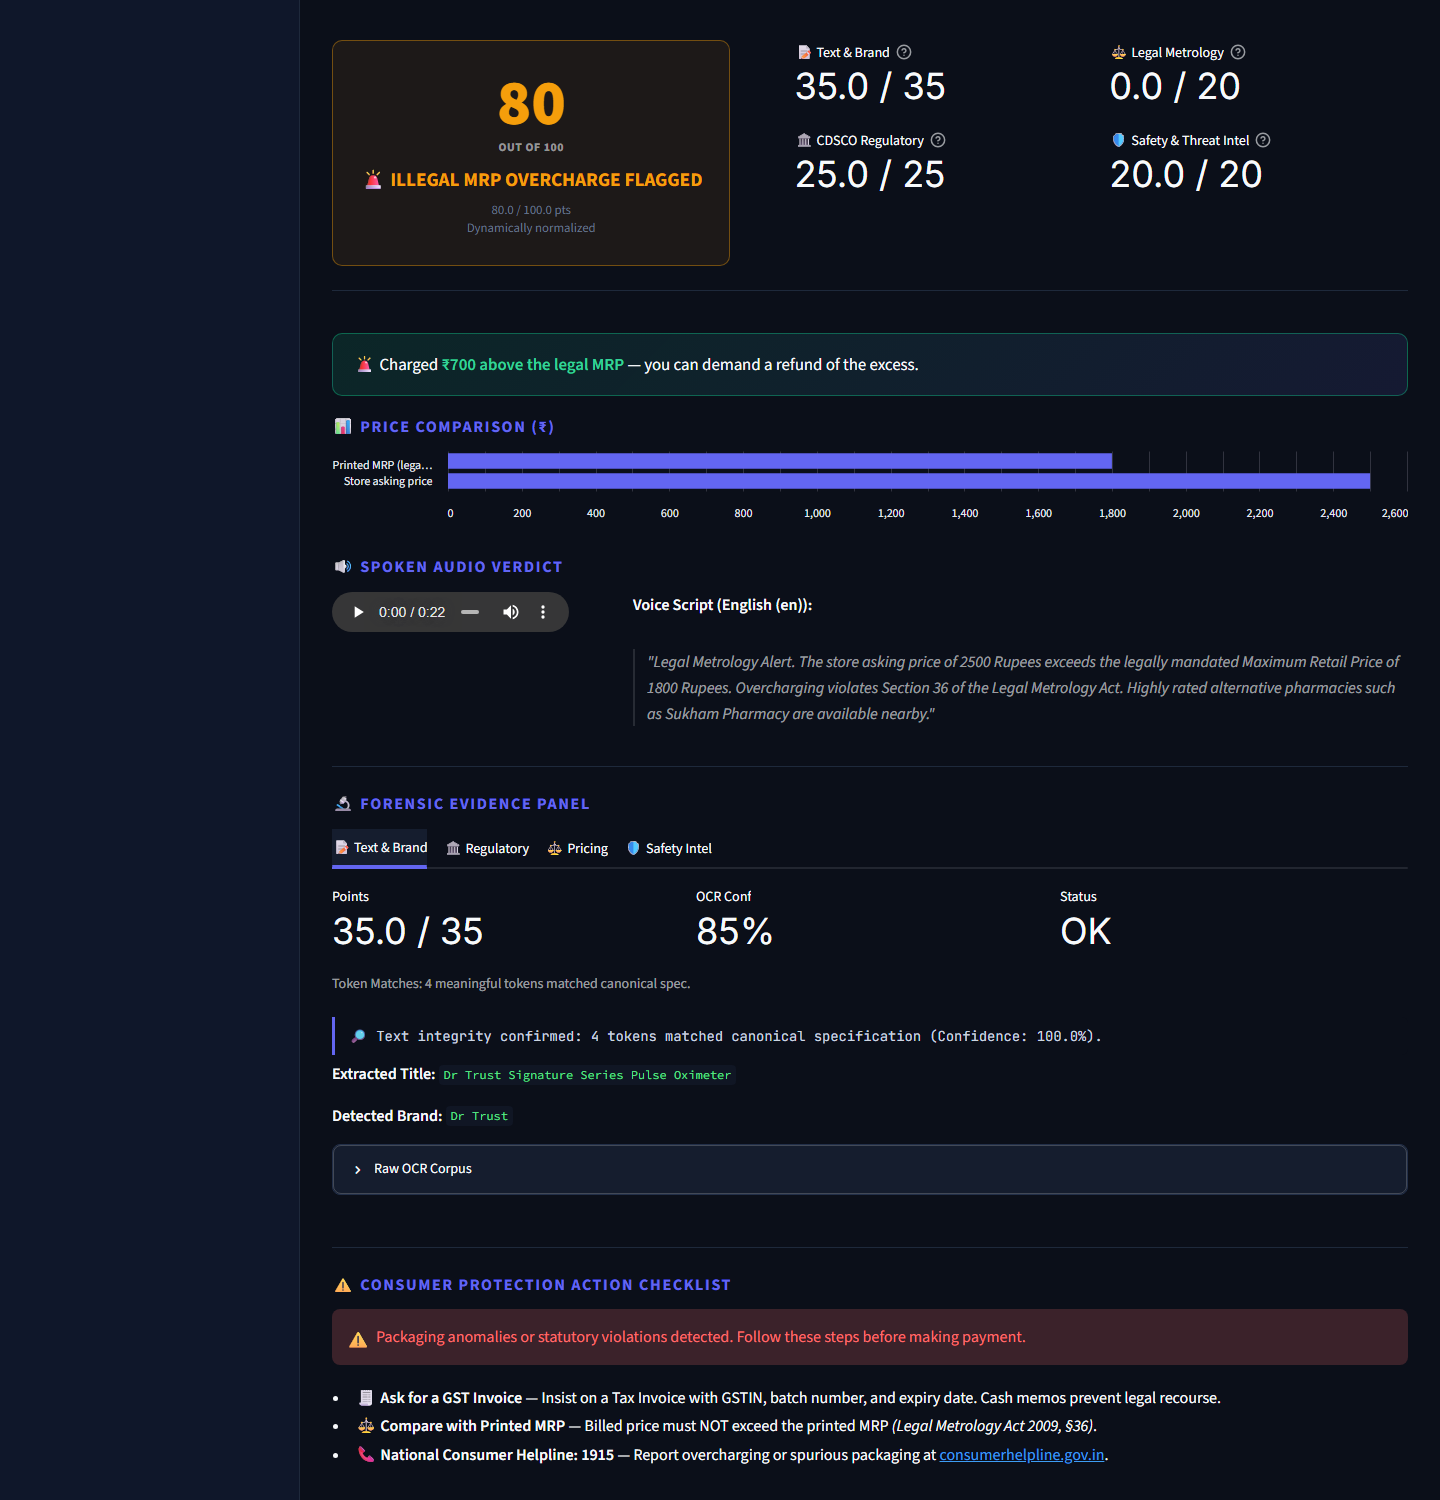
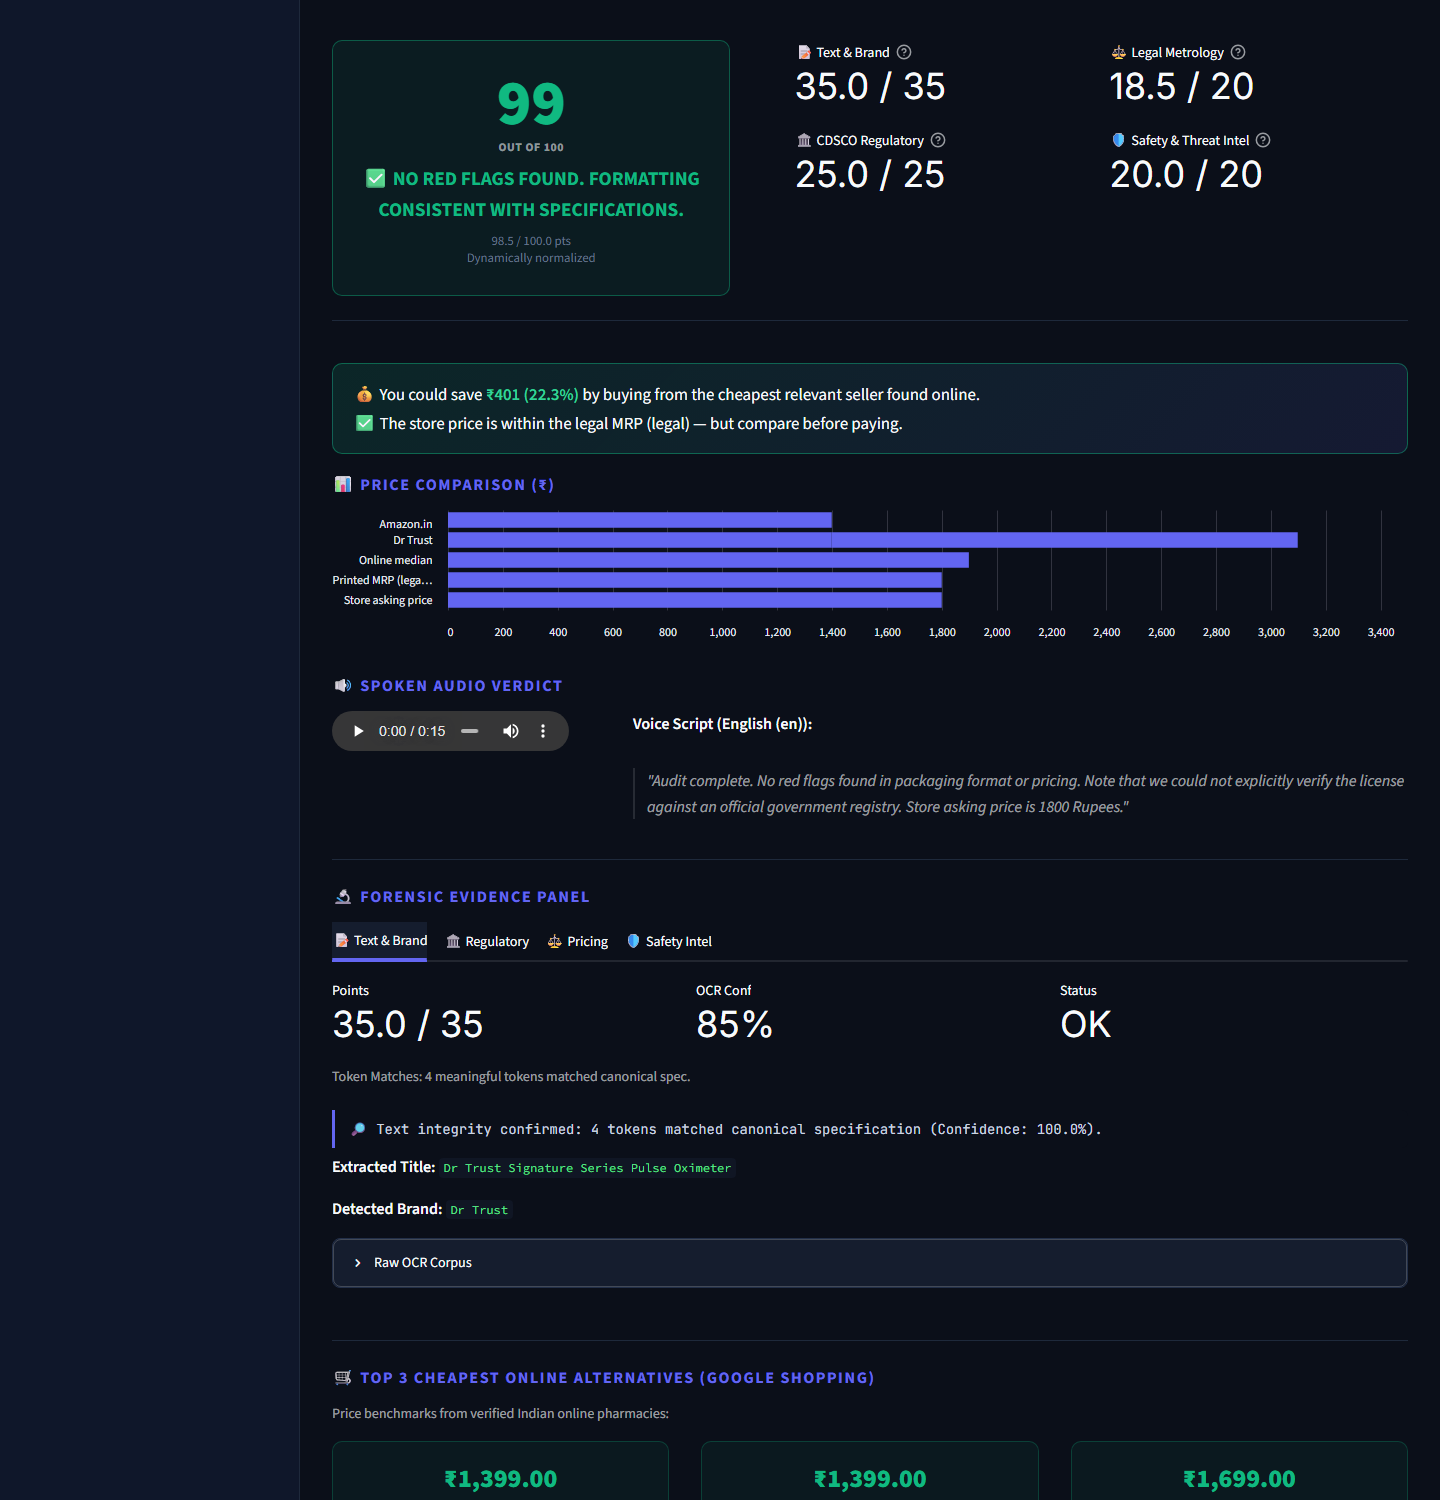
Refocus on fair price + cheapest source; fix Shopping query builder; savings in audio

diff --git a/app.py b/app.py
@@ -442,8 +442,9 @@ if demo_mode_toggle:
 st.markdown("""
 <div class="cs-hero">
   <h1>🛡 Care-Shield</h1>
-  <p>Algorithmic defense against counterfeit medical packaging, illegal price gouging,
-     and spurious devices — zero hallucination, built for Indian senior citizens.</p>
+  <p><b>Before you pay:</b> is it the right product, is the price fair, and where is it cheapest?
+     Scan any medical device or medicine — live SerpApi prices, counterfeit &amp; recall checks,
+     and the legal MRP ceiling. Built for Indian families and senior citizens.</p>
   <span class="badge">CDSCO MDR 2017</span>
   <span class="badge">Legal Metrology Act 2009</span>
   <span class="badge">Zero Hallucination</span>
@@ -801,14 +802,25 @@ if scorecard:
         cheapest_ = min((m.price for m in pr_.benchmark_merchants if m.price >= 0.4 * (pr_.online_median or 0)), default=None)
         sv = compute_savings(pr_.scanned_purchase_price, scorecard.ocr_result.printed_mrp_inr,
                              pr_.online_median, cheapest_)
-        if sv["illegal_overcharge"] or sv["save_vs_cheapest"]:
-            lines = []
-            if sv["illegal_overcharge"]:
-                lines.append(f"🚨 Charged <b>₹{sv['illegal_overcharge']:,.0f} above the legal MRP</b> — you can demand a refund of the excess.")
-            if sv["save_vs_cheapest"]:
-                lines.append(f"💰 You could save <b>₹{sv['save_vs_cheapest']:,.0f} ({sv['save_pct']}%)</b> buying from the cheapest verified online seller.")
-            st.markdown(
-                '<div class="cs-savings">' + "<br/>".join(lines) + "</div>", unsafe_allow_html=True)
+        mrp_ = scorecard.ocr_result.printed_mrp_inr
+        gap_pct = None
+        if mrp_ and pr_.online_median and pr_.online_median < 0.92 * mrp_:
+            gap_pct = round(100 * (mrp_ - pr_.online_median) / mrp_)
+        lines = []
+        if sv["save_vs_cheapest"]:
+            lines.append(f"💰 You could save <b>₹{sv['save_vs_cheapest']:,.0f} ({sv['save_pct']}%)</b> by buying from the cheapest relevant seller found online.")
+        if gap_pct:
+            lines.append(f"🏷 <b>MRP is a legal ceiling, not the fair price</b> — the online median (₹{pr_.online_median:,.0f}) is <b>{gap_pct}% below</b> the printed MRP (₹{mrp_:,.0f}).")
+        if sv["illegal_overcharge"]:
+            lines.append(f"🚨 Charged <b>₹{sv['illegal_overcharge']:,.0f} above the legal MRP</b> — you can demand a refund of the excess.")
+        elif mrp_ and pr_.scanned_purchase_price <= mrp_ and lines:
+            lines.append("✅ The store price is within the legal MRP (legal) — but compare before paying.")
+        if lines:
+            st.markdown('<div class="cs-savings">' + "<br/>".join(lines) + "</div>", unsafe_allow_html=True)
+        if not pr_.benchmark_merchants and not scorecard.is_demo_replay:
+            st.info("No reliable online listings matched this product, so no market comparison is shown "
+                    "(we never use unrelated products as a benchmark). Try a clearer photo or edit the "
+                    "product title / brand above.", icon="ℹ")
         import pandas as pd
         rows_ = [("Store asking price", pr_.scanned_purchase_price)]
         if scorecard.ocr_result.printed_mrp_inr:

diff --git a/core/parity_checker.py b/core/parity_checker.py
@@ -75,6 +75,37 @@ def get_demo_benchmark_merchants(product_title: str) -> List[BenchmarkMerchant]:
         ]
 
 
+
+_FLUFF = {
+    "signature", "series", "professional", "premium", "original", "genuine", "new", "model", "digital",
+    "advanced", "classic", "deluxe", "ip", "usa", "pro", "plus", "with", "for", "and", "the",
+    "mrp", "batch", "inclusive", "taxes", "of", "all", "in", "pack", "set",
+}
+
+
+def build_shopping_query(brand: str, title: str) -> str:
+    """Short, precise Shopping query: brand + up to 3 core product words (no duplicates, no marketing fluff).
+
+    Long titles ("Signature Series ...") make Google Shopping drift to unrelated products
+    (smartwatches for an oximeter), so we keep only the product nouns.
+    """
+    brand = (brand or "").strip()
+    if brand.lower().startswith(("unknown", "not provided")):
+        brand = ""
+    brand_tokens = {t.lower().strip(".") for t in re.findall(r"[\w.&-]+", brand)}
+    core = []
+    for tok in re.findall(r"[\w.&-]+", title or ""):
+        low = tok.lower().strip(".")
+        if low in brand_tokens or low in _FLUFF or re.fullmatch(r"\d+\s*(mg|ml|g|mcg)", low):
+            continue
+        if low.startswith("rs") or low in {"inr"}:
+            break
+        core.append(tok)
+        if len(core) == 3:
+            break
+    return f"{brand} {' '.join(core)}".strip() or (title or "").strip()
+
+
 def check_price_parity(
     product_title: str,
     detected_brand: str,
@@ -107,7 +138,7 @@ def check_price_parity(
     if active_key and not is_demo_mode:
         try:
             from serpapi import GoogleSearch
-            query = f"{detected_brand} {product_title}".strip()
+            query = build_shopping_query(detected_brand, product_title)
             params = {
                 "engine": "google_shopping",
                 "q": query,
@@ -172,7 +203,7 @@ def check_price_parity(
     # SerpApi unavailable / empty -> Gemini grounded Google Search fallback (real web sources only)
     if not benchmarks and not is_demo_mode and config.GEMINI_API_KEY:
         from core.gemini_fallback import gemini_price_benchmark
-        gem = gemini_price_benchmark(f"{detected_brand} {product_title}".strip(), config.GEMINI_API_KEY)
+        gem = gemini_price_benchmark(build_shopping_query(detected_brand, product_title), config.GEMINI_API_KEY)
         if gem:
             benchmarks = gem
             is_live = True

diff --git a/audio.py b/audio.py
@@ -15,7 +15,32 @@ from schemas import AuditScorecard
 logger = logging.getLogger(__name__)
 
 
+def _saving_amount(scorecard: AuditScorecard) -> int:
+    """Rupees saved vs the cheapest plausible online listing (0 when there is no reliable benchmark)."""
+    pr = scorecard.parity_result
+    if not pr or not pr.scanned_purchase_price or not pr.benchmark_merchants or not pr.online_median:
+        return 0
+    cheapest = min((m.price for m in pr.benchmark_merchants if m.price >= 0.4 * pr.online_median), default=None)
+    if cheapest and pr.scanned_purchase_price > cheapest * 1.05:
+        return int(pr.scanned_purchase_price - cheapest)
+    return 0
+
+
 def build_audio_script(scorecard: AuditScorecard, language: str = "en") -> str:
+    """Spoken verdict (price comparison first, legal MRP check second)."""
+    base = _build_base_script(scorecard, language)
+    save = _saving_amount(scorecard)
+    if not save or scorecard.is_aborted:
+        return base
+    extra = {
+        "en": f" You could save about {save} Rupees by buying from the cheapest online seller.",
+        "hi": f" सबसे सस्ते ऑनलाइन विक्रेता से खरीदकर आप लगभग {save} रुपये बचा सकते हैं।",
+        "ta": f" மலிவான ஆன்லைன் விற்பனையாளரிடம் வாங்கினால் சுமார் {save} ரூபாய் சேமிக்கலாம்.",
+    }
+    return base + extra.get(language, extra["en"])
+
+
+def _build_base_script(scorecard: AuditScorecard, language: str = "en") -> str:
     """Compose clear, legally defensible spoken verdict script for senior accessibility."""
     price = scorecard.parity_result.scanned_purchase_price if scorecard.parity_result else 0.0
     mrp = scorecard.ocr_result.printed_mrp_inr

diff --git a/README.md b/README.md
@@ -4,7 +4,7 @@
 
 > 🚀 **Live app:** **[https://care-shield-awdfuejzzvdctwjjtkgeup.streamlit.app/](https://care-shield-awdfuejzzvdctwjjtkgeup.streamlit.app/)**
 
-> Scan a medical product, and in seconds know whether it is **genuine**, **legally priced**, and **where to buy it cheaper** — powered by **SerpApi**.
+> **Before you pay:** is it the right product, is the price fair, and where is it cheapest? Scan a medical device or medicine and get live market prices, counterfeit/recall checks and the legal MRP ceiling — powered by **SerpApi**.
 
 Built for the **SerpApi India Hackathon 2026** · Track: **Knowledge & Public Interest** (accessibility, consumer protection, news) · also relevant to *Commerce & Market Intelligence*.
 
@@ -17,11 +17,13 @@ Built for the **SerpApi India Hackathon 2026** · Track: **Knowledge & Public In
 
 ## The problem
 
-In India, elderly patients and their families routinely buy BP monitors, oximeters, glucometers and braces from pharmacies where they cannot tell if:
+Families buying BP monitors, oximeters, glucometers, braces or OTC medicines can't tell:
 
-- the shop is **charging above the printed MRP** (illegal under *Legal Metrology Act 2009, §36*),
-- the box is a **counterfeit / spurious** product (knock-off spellings, malformed CDSCO licence numbers),
-- a **cheaper legitimate option** exists (online sellers, government *Jan Aushadhi* generic stores).
+- **Is this the fair price?** Pharmacies sell at the printed MRP, which is only a *legal ceiling* — the same product is often 20–40 % cheaper online or at Jan Aushadhi stores. Nobody checks.
+- **Is it genuine?** Counterfeit / spurious devices carry knock-off spellings and malformed CDSCO licence numbers, and recalls are hard to find.
+- **Where is it cheapest?** Comparing sellers by hand, in a shop, on a small phone, is unrealistic — especially for seniors.
+
+(Charging *above* MRP is illegal under *Legal Metrology Act 2009 §36*, so Care-Shield checks that too, but the everyday saving comes from the market comparison.)
 
 ## What Care-Shield does
 
